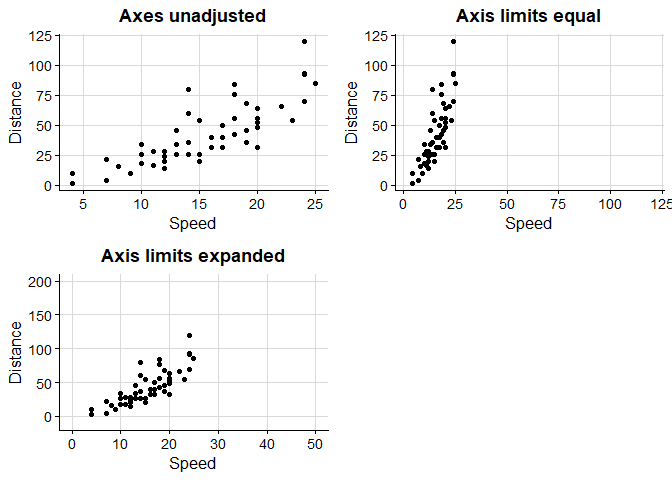
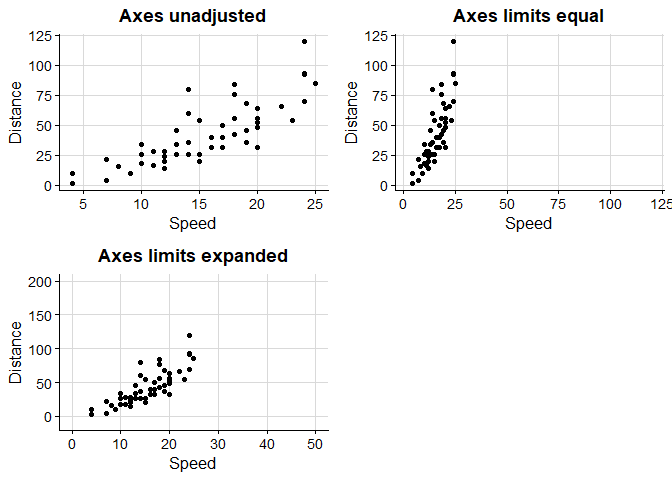
Adjust README

Changed region(s): [[0.125, 0.5, 0.4375, 0.5625], [0.6562, 0.0, 0.9062, 0.0625]]

diff --git a/README.md b/README.md
@@ -38,7 +38,7 @@ p1 <- axis_limits(
   p = p0, 
   axis_limits_equal = TRUE
 ) +
-  labs(title = "Axis limits equal")
+  labs(title = "Axes limits equal")
 p2 <- axis_limits(
   p = p0, 
   expand_limits = list(
@@ -46,7 +46,7 @@ p2 <- axis_limits(
     y = c(-10, 200)
   ) 
 ) +
-  labs(title = "Axis limits expanded")
+  labs(title = "Axes limits expanded")
 cowplot::plot_grid(p0, p1, p2)
 ```
 
